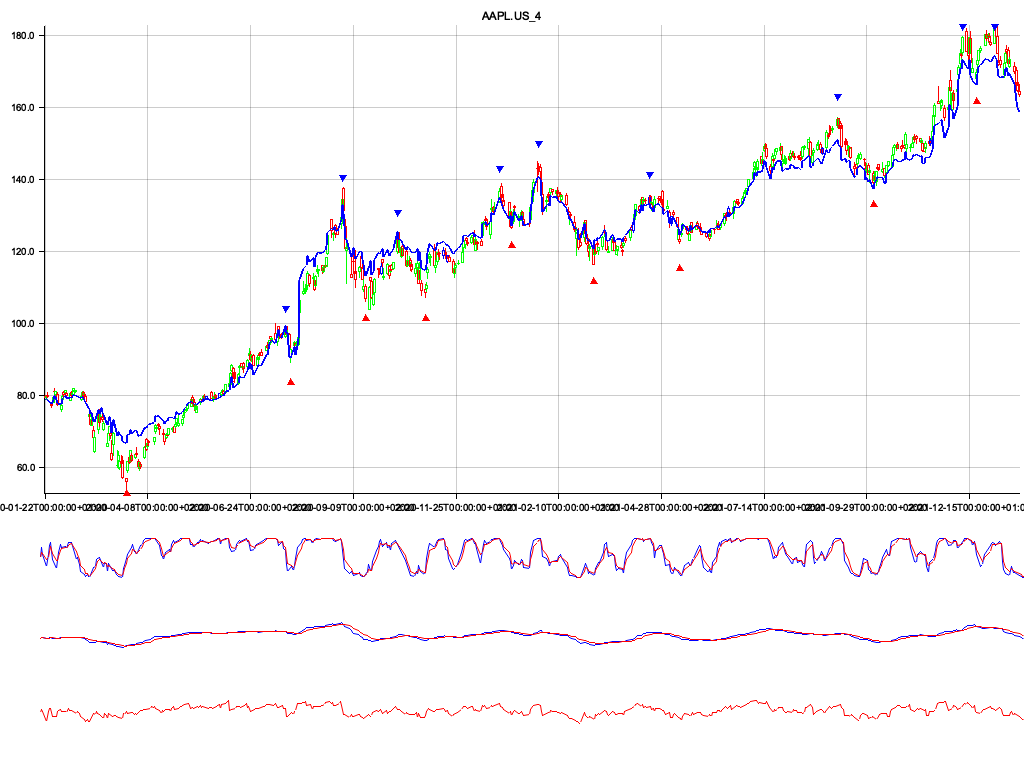
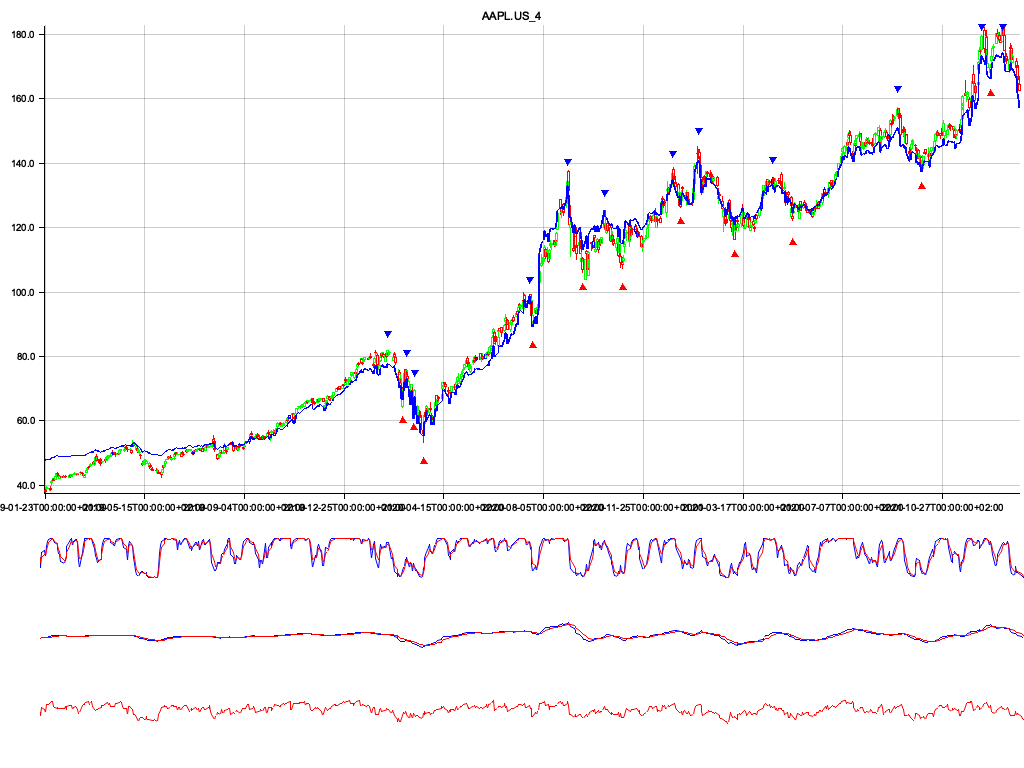
feat: add double top detection

diff --git a/src/patterns/pattern.rs b/src/patterns/pattern.rs
@@ -1,9 +1,11 @@
 use super::peaks::Peaks;
+use crate::helpers::comp::is_equal;
 use crate::patterns::upper_channel::UpperChannel;
 
 use std::cmp;
 use std::env;
-
+type point = (usize, f64);
+type data_points = (point, point, point, point, point);
 //TODO use TRAITS
 
 #[derive(Debug, Clone)]
@@ -31,17 +33,52 @@ impl Patterns {
         }
     }
 
-    pub fn detect_pattern(&mut self, peaks: &Peaks) {
+    pub fn detect_pattern(&mut self, peaks: &Peaks, current_price: &f64) {
         let max_bars = env::var("PATTERNS_MAX_BARS")
             .unwrap()
             .parse::<usize>()
             .unwrap();
+        let num_data_points = env::var("PATTERNS_DATA_POINTS")
+            .unwrap()
+            .parse::<usize>()
+            .unwrap();
         let mut locals = [peaks.local_maxima.clone(), peaks.local_minima.clone()].concat();
-        locals.sort_by(|(a, _), (b, _)| a.cmp(b));
 
-        println!("111111, {:?}", locals);
-        for x in &peaks.smooth_highs {
-            //println!("{:?}", x);
+        locals.sort_by(|(a, _), (b, _)| a.cmp(b));
+        locals.reverse();
+        let mut iter = locals.windows(num_data_points);
+        let mut leches = true;
+        while leches {
+            match iter.next() {
+                Some(x) => {
+                    let data_points = self.get_data_points(x);
+                    self.double_top(&data_points, current_price);
+                }
+                None => {
+                    leches = false;
+                }
+            }
+        }
+    }
+    pub fn get_data_points(&self, data: &[(usize, f64)]) -> data_points {
+        let e1 = data[0];
+        let e2 = data[1];
+        let e3 = data[2];
+        let e4 = data[3];
+        let e5 = data[4];
+        (e1, e2, e3, e4, e5)
+    }
+
+    pub fn double_top(
+        &self,
+        data: &data_points,
+        _current_price: &f64,
+    ) -> Option<(point, point, point)> {
+        if is_equal(data.0 .1, data.2 .1) && data.1 .1 < data.0 .1 && data.1 .1 < data.2 .1 {
+            println!("[DOUBLE TOP] {:?}", data);
+            Some((data.0, data.1, data.2))
+        } else {
+            None
         }
     }
 

diff --git a/src/helpers/comp.rs b/src/helpers/comp.rs
@@ -1,0 +1,24 @@
+use std::env;
+
+pub fn is_equal(x: f64, y: f64) -> bool {
+    let threshold = env::var("EQUAL_THRESHOLD").unwrap().parse::<f64>().unwrap();
+    let max = x.max(y);
+    let min = y.min(x);
+    let increase = max - min;
+    let percentage_increase = (increase / x) * 100.;
+    if percentage_increase > 0. && percentage_increase < threshold {
+        true
+    } else {
+        false
+    }
+}
+
+fn average(numbers: &[i32]) -> f64 {
+    numbers.iter().sum::<i32>() as f64 / numbers.len() as f64
+}
+
+fn median(numbers: &mut [i32]) -> i32 {
+    numbers.sort();
+    let mid = numbers.len() / 2;
+    numbers[mid]
+}

diff --git a/src/main.rs b/src/main.rs
@@ -18,7 +18,7 @@ mod instrument;
 mod patterns;
 mod screener;
 
-const TICKER: &str = "AAPL.US_4";
+const TICKER: &str = "DE.US_4";
 
 #[tokio::main]
 async fn main() -> Result<()> {
@@ -26,7 +26,7 @@ async fn main() -> Result<()> {
 
     let username = &env::var("BROKER_USERNAME").unwrap();
     let password = &env::var("BROKER_PASSWORD").unwrap();
-    let from = (Local::now() - date::Duration::days(365 * 2)).timestamp();
+    let from = (Local::now() - date::Duration::days(365 * 1)).timestamp();
 
     //TODO configure with builder (credentials, optional render)
     let mut screener = Screener::<Xtb>::new(TICKER).await?;

diff --git a/src/instrument.rs b/src/instrument.rs
@@ -119,7 +119,8 @@ impl Instrument {
 
         self.set_current_price(parsed[0].close());
         self.peaks.calculate_peaks(&self.max_price).unwrap();
-        self.patterns.detect_pattern(&self.peaks);
+        self.patterns
+            .detect_pattern(&self.peaks, &self.current_price);
 
         //self.indicators.calculate_macd(&parsed).unwrap();
 

diff --git a/src/helpers/mod.rs b/src/helpers/mod.rs
@@ -1,3 +1,4 @@
+pub mod comp;
 pub mod date;
 pub mod http;
 pub mod poly;
